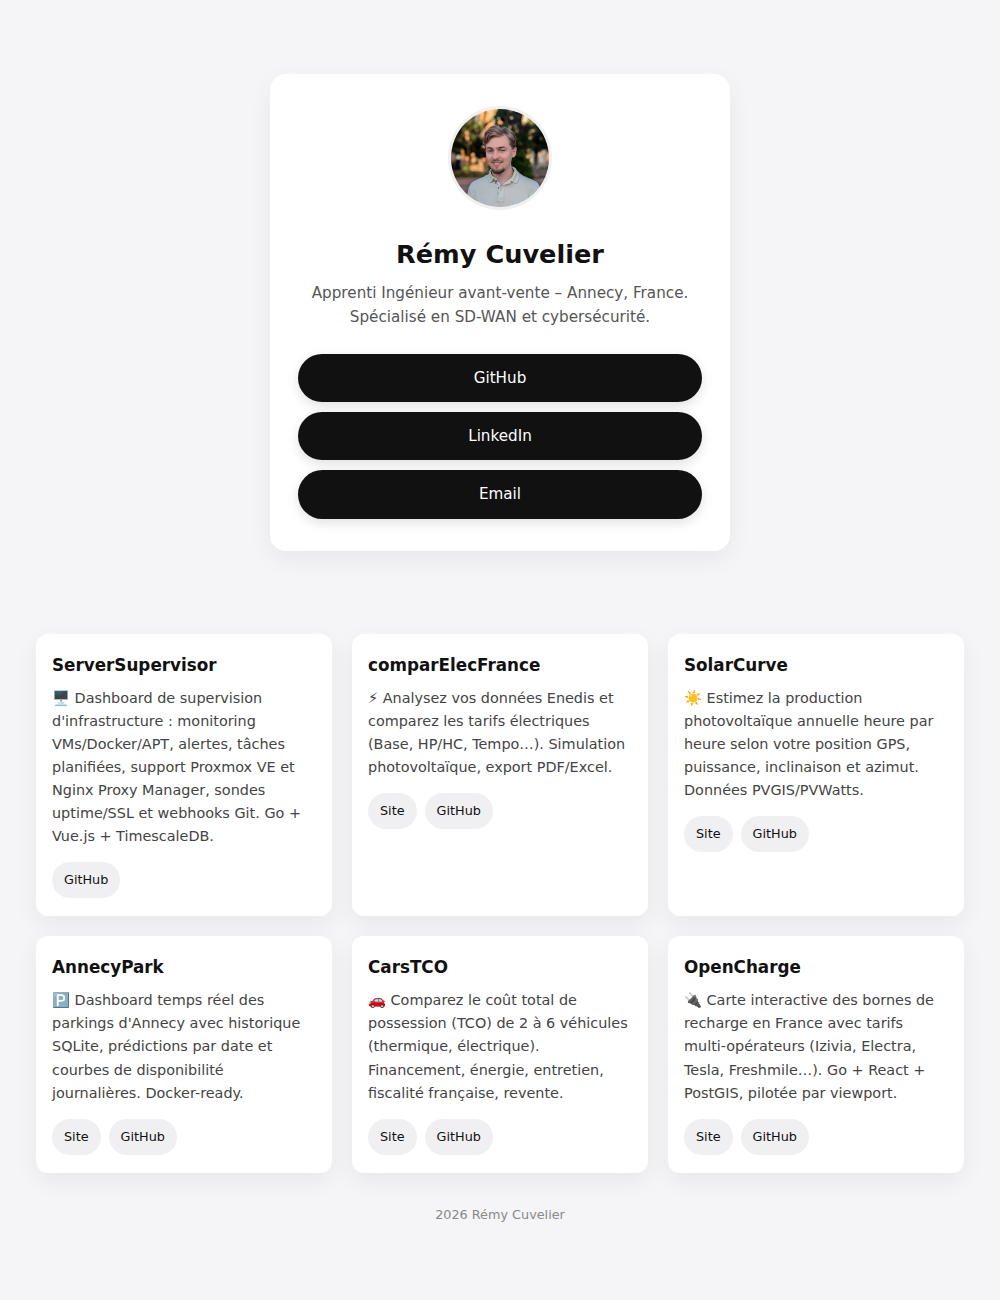
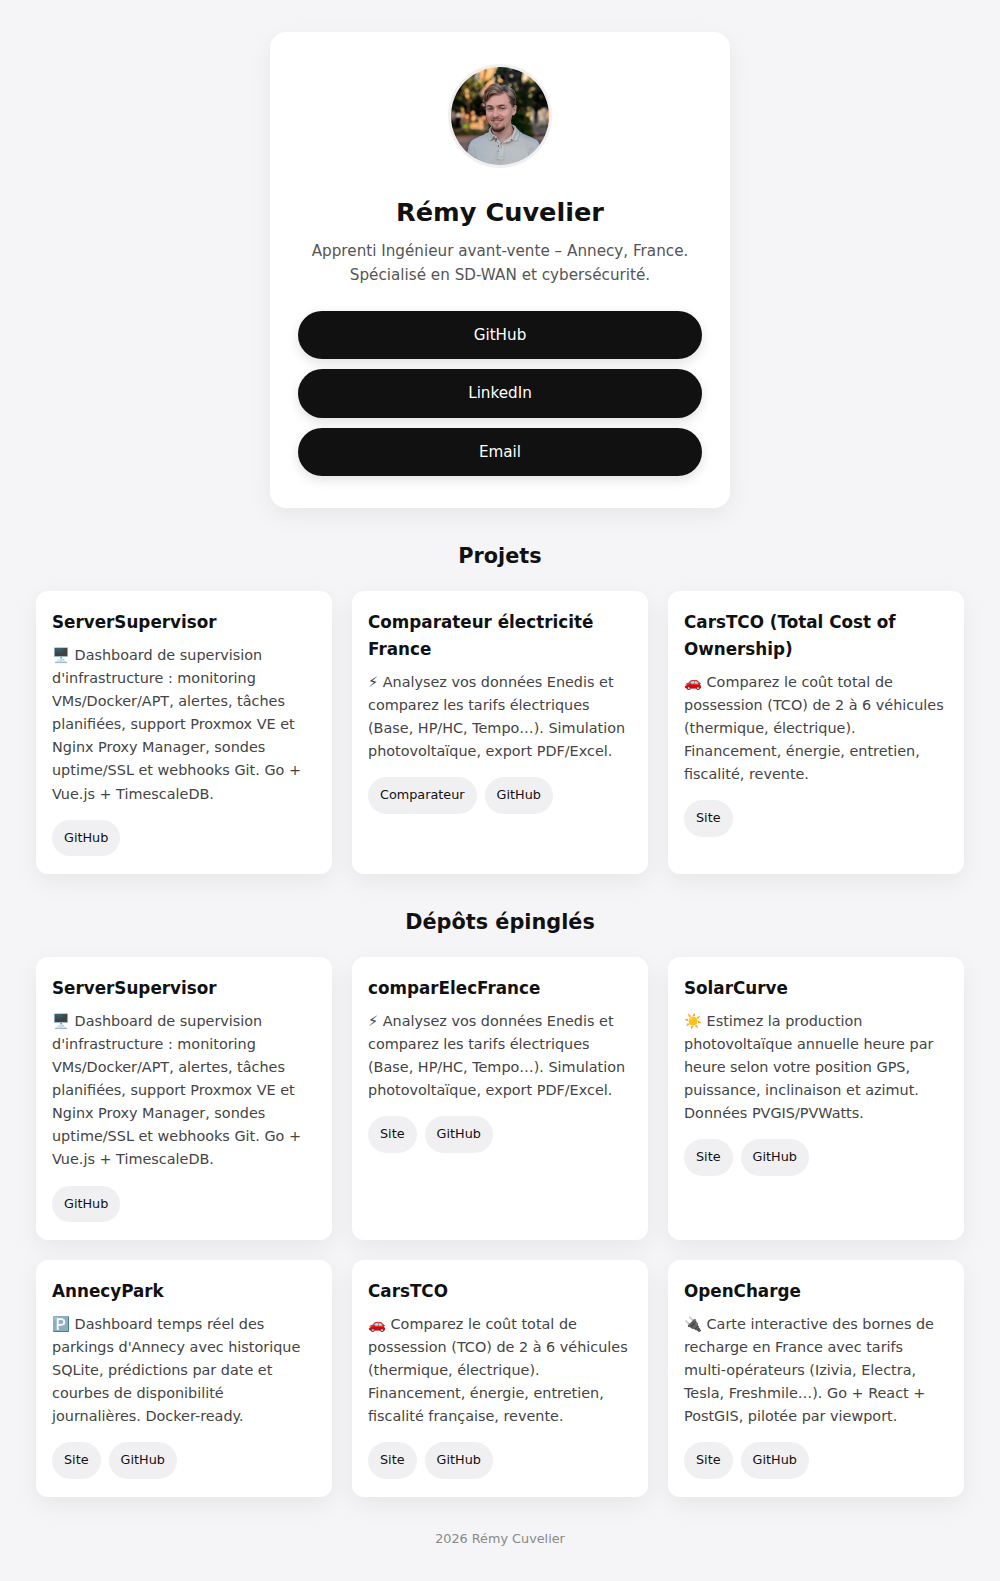
Split projects into hand-curated and auto-synced sections
data.json's "projects" array was fully overwritten by the pinned-repo
sync, so there was no way to keep a manually curated highlight list
alongside the automatic one. Split it into "projects" (untouched by
the sync script, edit freely) and "pinned_repos" (owned by
scripts/sync-pinned-projects.mjs and the workflow, regenerated on
every run) — each rendered in its own section.

Also fixes a latent bug found while touching the entrance-animation
code: .section-title.fade-up was never targeted by
triggerEntranceAnimations, so section headings stayed invisible
(opacity: 0) after the fade-up transition — unnoticed with one
section, obvious with two.

Changed region(s): [[0.279, 0.0308, 0.93, 0.9846], [0.031, 0.3692, 0.279, 0.9231]]

diff --git a/main.js b/main.js
@@ -37,11 +37,11 @@ function renderProfile(data) {
   });
 }
 
-function renderProjects(data) {
-  const projectsContainer = document.getElementById("projects");
-  projectsContainer.innerHTML = "";
+function renderProjectList(projects, containerId) {
+  const container = document.getElementById(containerId);
+  container.innerHTML = "";
 
-  data.projects.forEach(project => {
+  projects.forEach(project => {
     const card = document.createElement("article");
     card.className = "project-card";
 
@@ -72,7 +72,7 @@ function renderProjects(data) {
     card.appendChild(desc);
     card.appendChild(linksDiv);
 
-    projectsContainer.appendChild(card);
+    container.appendChild(card);
   });
 }
 
@@ -84,7 +84,7 @@ function renderFooter(data) {
 
 function triggerEntranceAnimations() {
   // Sections principales
-  document.querySelectorAll('.profile-section.fade-up, .projects-section.fade-up').forEach(el => {
+  document.querySelectorAll('.profile-section.fade-up, .projects-section.fade-up, .section-title.fade-up').forEach(el => {
     el.classList.add('visible');
   });
 
@@ -120,7 +120,8 @@ async function init() {
   try {
     const data = await loadData();
     renderProfile(data);
-    renderProjects(data);
+    renderProjectList(data.projects, "projects");
+    renderProjectList(data.pinned_repos, "pinned-repos");
     renderFooter(data);
 
     // Déclenche les animations après que le DOM est peint

diff --git a/index.html b/index.html
@@ -47,13 +47,24 @@
       </div>
     </section>
 
-    <!-- Projets -->
+    <!-- Projets mis en avant (édité à la main dans data.json) -->
     <section class="projects-section fade-up">
-      <h2 class="section-title fade-up">Projets &amp; Sites</h2>
+      <h2 class="section-title fade-up">Projets</h2>
 
       <div id="projects" class="projects-grid">
         <noscript>
           <p style="text-align:center;">Activez JavaScript pour voir la liste des projets.</p>
+        </noscript>
+      </div>
+    </section>
+
+    <!-- Dépôts épinglés GitHub (synchronisés automatiquement, voir scripts/sync-pinned-projects.mjs) -->
+    <section class="projects-section fade-up">
+      <h2 class="section-title fade-up">Dépôts épinglés</h2>
+
+      <div id="pinned-repos" class="projects-grid">
+        <noscript>
+          <p style="text-align:center;">Activez JavaScript pour voir la liste des dépôts épinglés.</p>
         </noscript>
       </div>
     </section>

diff --git a/README.md b/README.md
@@ -5,8 +5,8 @@
 **Une page de liens perso, statique, sans framework.**
 
 Nom, bio, liens de contact et projets — tout est piloté par un seul
-fichier JSON. La liste des projets se met à jour toute seule à partir
-des dépôts épinglés sur GitHub.
+fichier JSON. Une deuxième liste, les dépôts épinglés GitHub, se met à
+jour toute seule.
 
 ### 👉 [**rem7474.github.io/link-in-bio**](https://rem7474.github.io/link-in-bio/) 👈
 
@@ -27,10 +27,13 @@ gratuitement sur GitHub Pages, sans build ni dépendance.
 
 - 📝 **Contenu piloté par [`data.json`](data.json)** — profil, liens et
   projets sont des données, pas du HTML à modifier
-- 🔄 **Projets auto-synchronisés** : un script interroge les dépôts
-  épinglés du profil GitHub via l'API GraphQL et régénère la liste des
-  projets (nom, description, lien du site + lien GitHub), via une
-  GitHub Action planifiée chaque jour et déclenchable à la main
+- ✍ **Projets mis en avant, édités à la main** (`projects`) — pour les
+  quelques réalisations que vous voulez montrer en premier, avec un
+  titre et des liens sur mesure
+- 🔄 **Dépôts épinglés, auto-synchronisés** (`pinned_repos`) : un script
+  interroge les dépôts épinglés du profil GitHub via l'API GraphQL et
+  régénère cette liste (nom, description, lien du site + lien GitHub),
+  via une GitHub Action planifiée chaque jour et déclenchable à la main
 - 🌓 **Mode sombre** automatique (`prefers-color-scheme`)
 - 🔍 **SEO / partage** : meta description, Open Graph, Twitter Card,
   `canonical`, favicon
@@ -43,8 +46,9 @@ gratuitement sur GitHub Pages, sans build ni dépendance.
 Éditez [`data.json`](data.json) :
 
 - `profile` : nom, bio, avatar, liens de contact — à modifier à la main
-- `projects` : régénéré automatiquement, ne pas éditer directement (voir
-  ci-dessous)
+- `projects` : vos projets mis en avant — à modifier à la main, librement
+- `pinned_repos` : régénéré automatiquement à partir des dépôts épinglés
+  GitHub, ne pas éditer directement (voir ci-dessous)
 
 ## Synchronisation des projets épinglés
 
